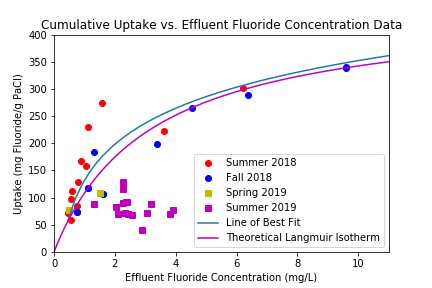
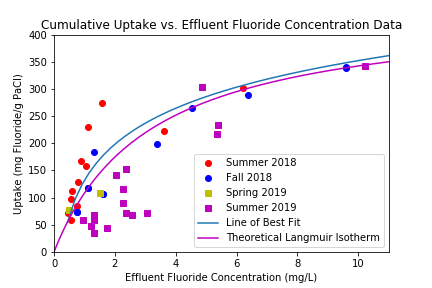
graphs and calcs

diff --git a/Summer 2019/Data and Graphs/Cumulative Graph Code.md b/Summer 2019/Data and Graphs/Cumulative Graph Code.md
@@ -61,4 +61,4 @@ plt.ylim(0,400)
 plt.xlabel("Effluent Fluoride Concentration (mg/L)")
 plt.ylabel("Uptake (mg Fluoride/g PaCl)")
 plt.legend((summer18plot, fall18plot, spring19plot, summer19plot, bestfit_plot,theoreticalplot),("Summer 2018", "Fall 2018", "Spring 2019", "Summer 2019", "Line of Best Fit","Theoretical Langmuir Isotherm"))
-#plt.savefig("Cumulative Graph")
+plt.savefig("Cumulative Graph")

diff --git a/Summer 2019/Other Calculations.md b/Summer 2019/Other Calculations.md
@@ -27,7 +27,7 @@ C_stock_PACl = 1000 * u.mg/u.L
 Q_reactor = 0.787 * u.mL/u.sec
 #PAC_rpm = 92*u.turn/u.minute
 #stock_PAC = PAC_rpm*oy_tube/(60*u.sec/u.minute)
-stock_PAC=0.02371*u.mL/u.sec
+stock_PAC=0.01377*u.mL/u.sec
 reactor_PAC = stock_PAC*(C_stock_PACl/Q_reactor)
 print('PACl concentration is: '+str(reactor_PAC))
 
